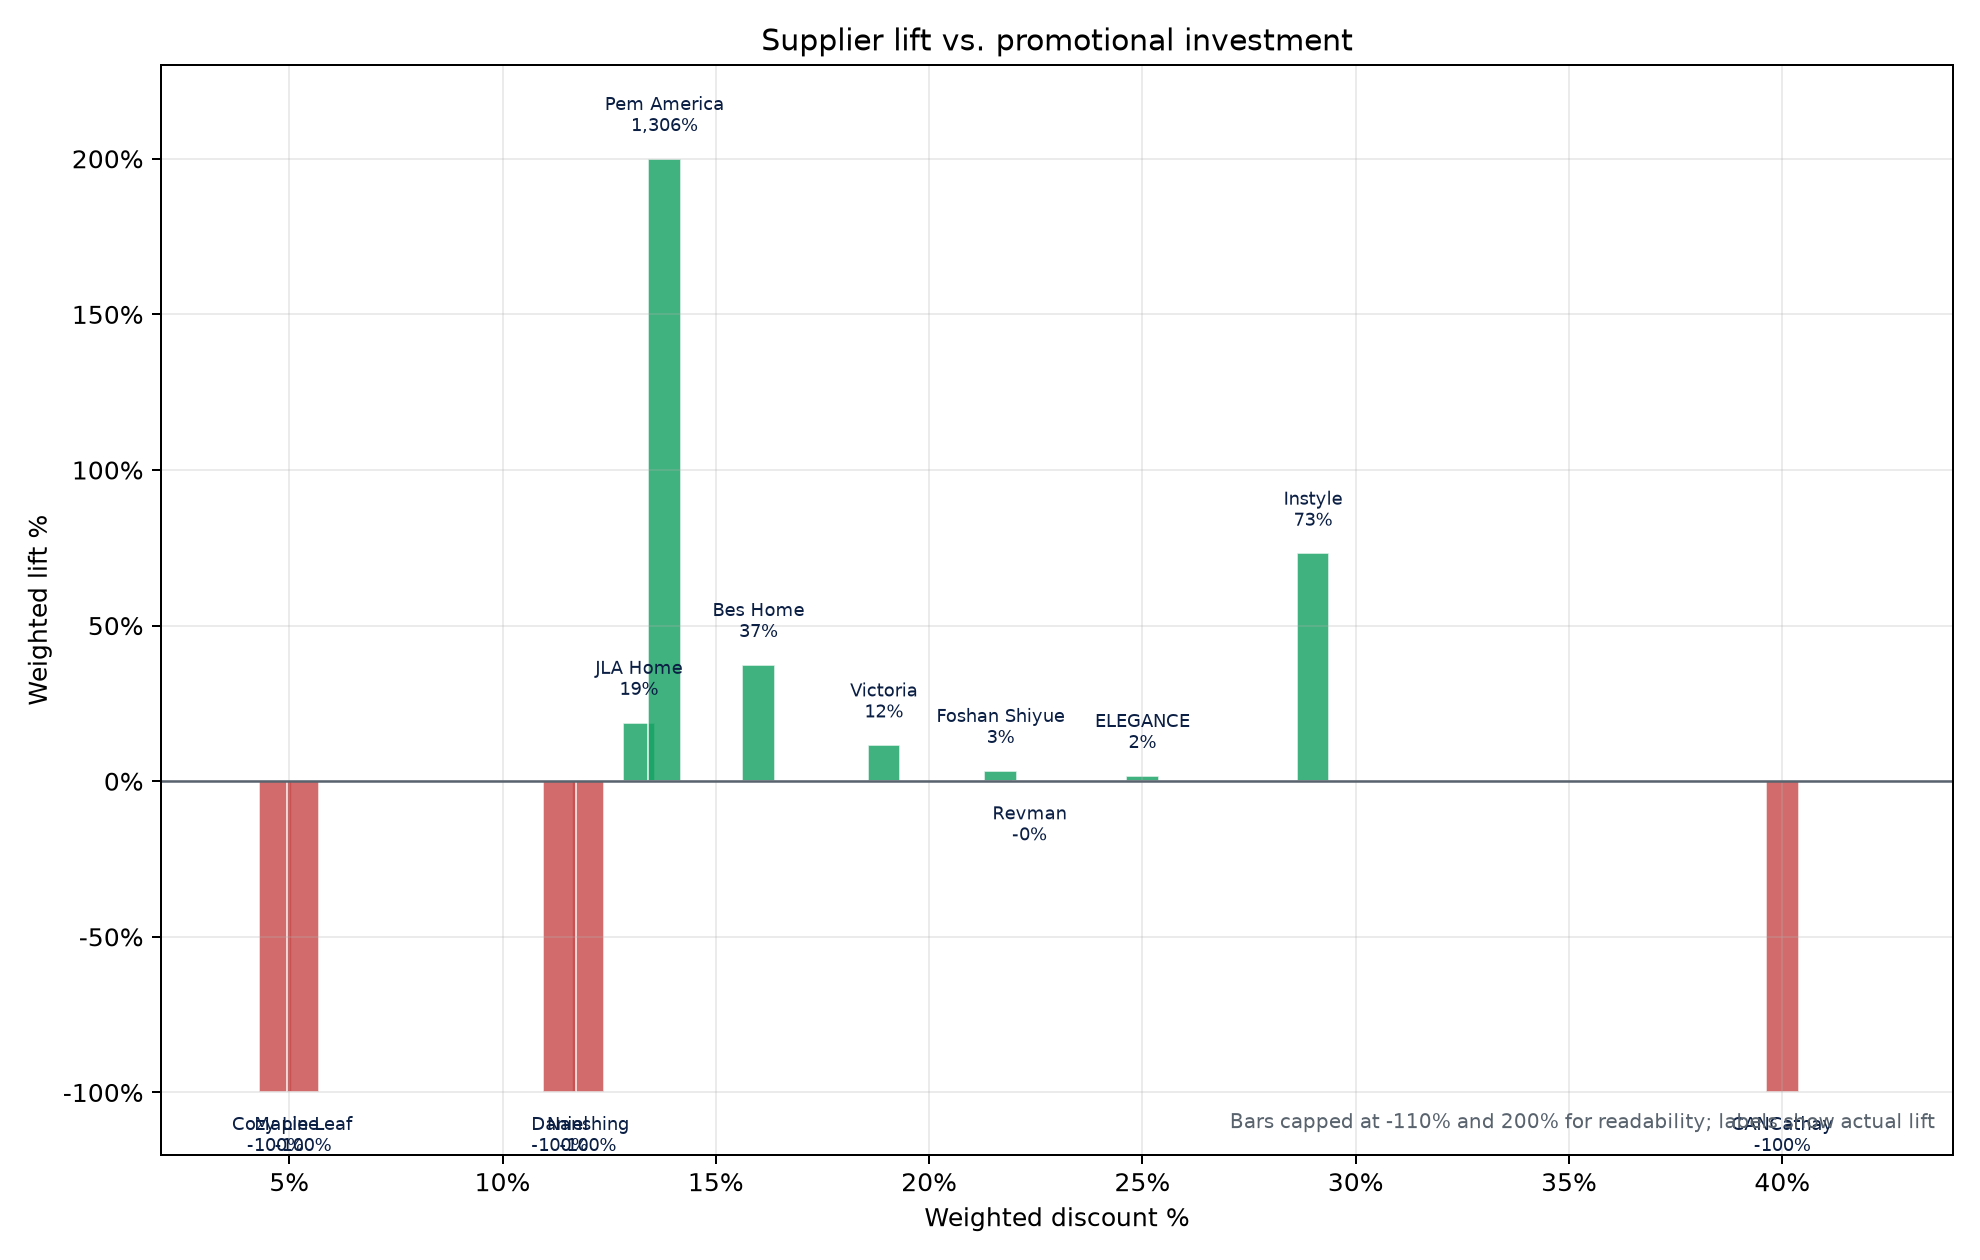
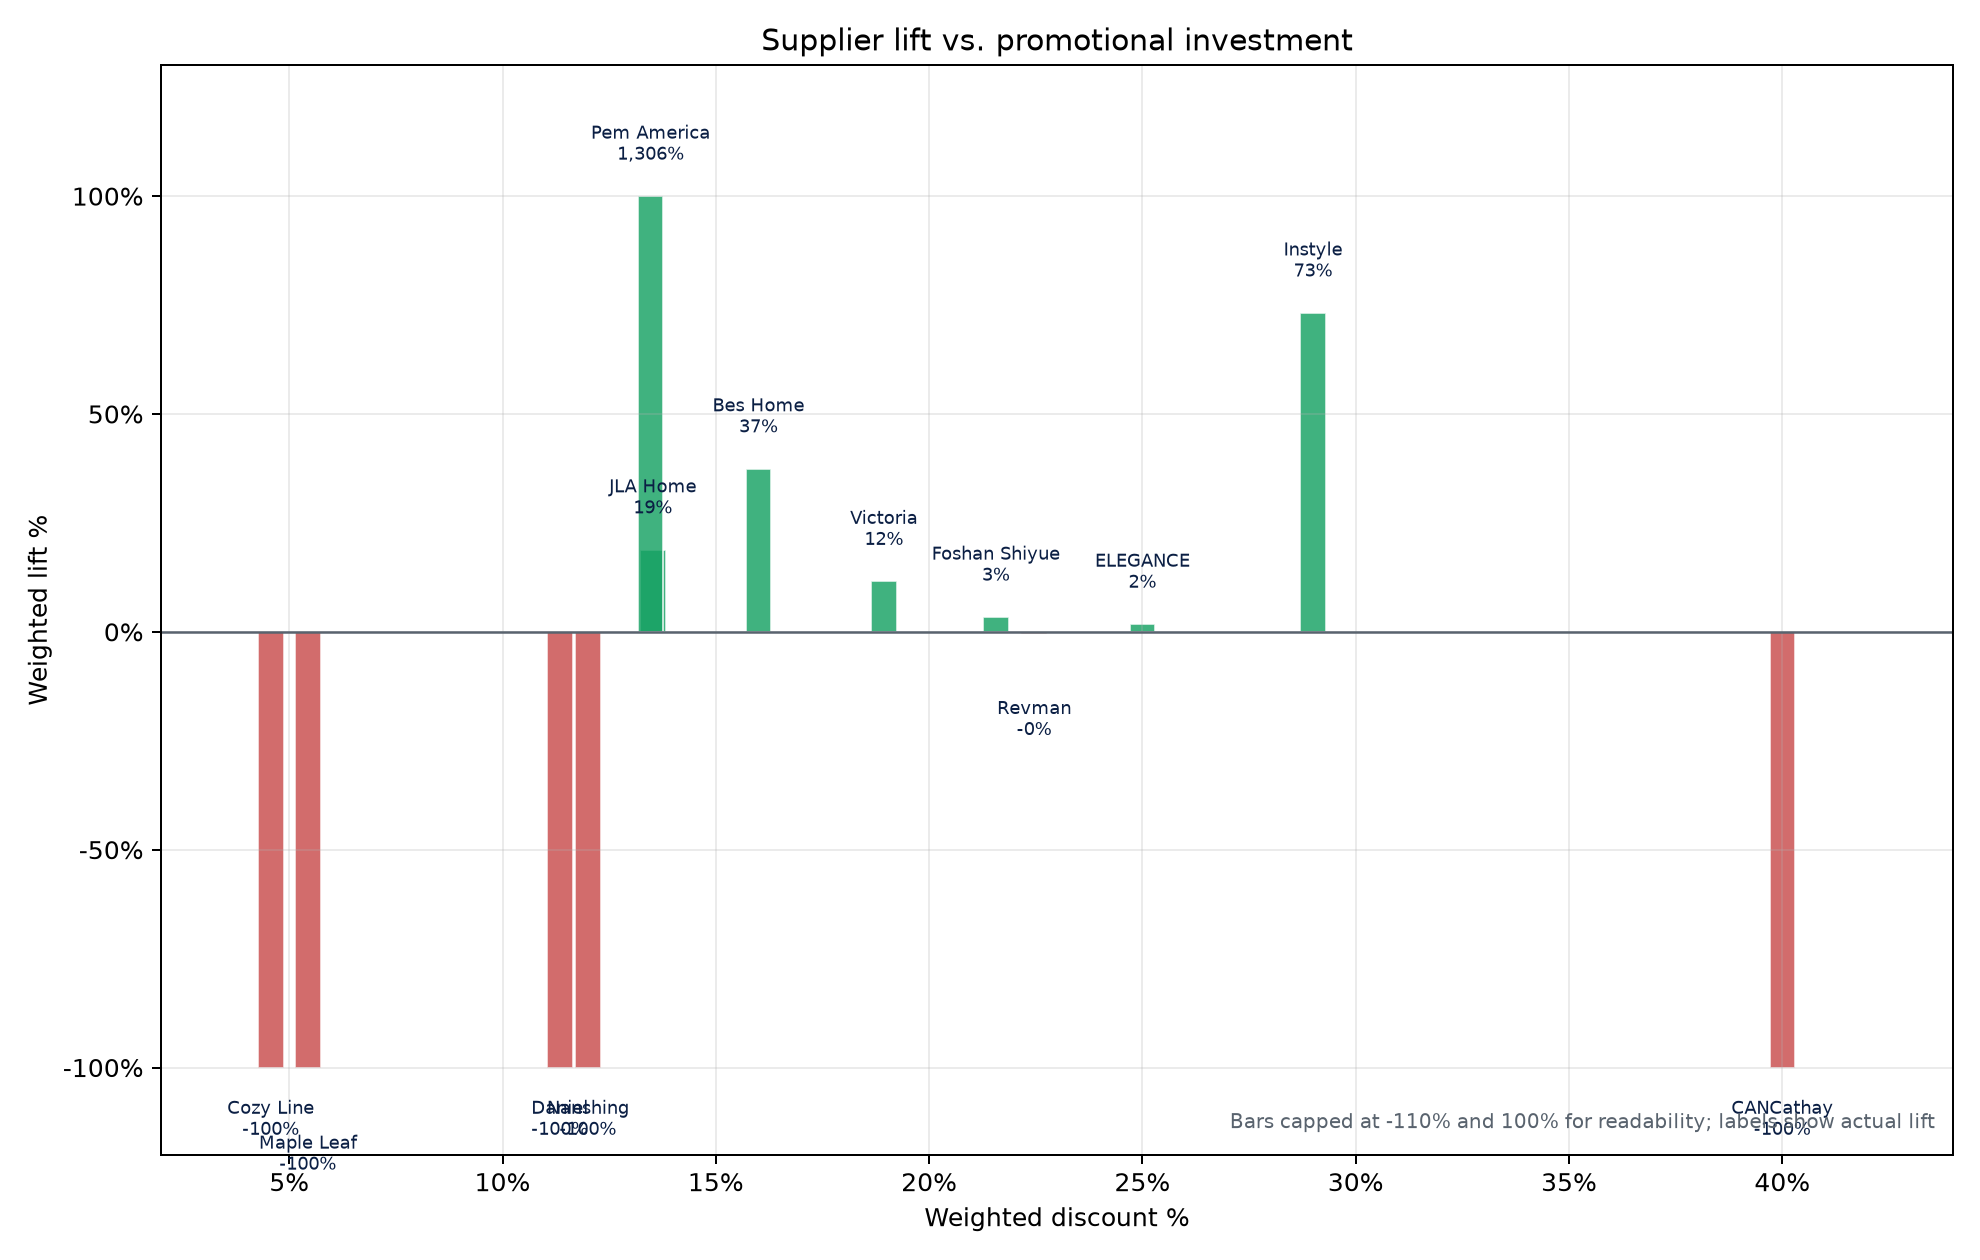
Improve window supplier chart readability

diff --git a/analysis/member_monday/build_case_study.py b/analysis/member_monday/build_case_study.py
@@ -330,21 +330,26 @@ def save_chart_supplier_scatter(supplier_summary: pd.DataFrame, out: Path) -> No
     plot_df = plot_df.sort_values("member_monday_sales", ascending=False).head(14)
     plot_df["lift_pct"] = plot_df["weighted_lift_pct"] * 100
     plot_df["discount_pct"] = plot_df["weighted_discount_pct"] * 100
-    plot_df["display_lift_pct"] = plot_df["lift_pct"].clip(lower=-110, upper=200)
+    plot_df["display_lift_pct"] = plot_df["lift_pct"].clip(lower=-110, upper=100)
     plot_df["display_name"] = plot_df["supplier_name"].map(abbreviate_supplier)
 
     x_min = max(0, plot_df["discount_pct"].min() - 3)
     x_max = plot_df["discount_pct"].max() + 4
-    bar_width = max(0.45, (x_max - x_min) / 55)
+    bar_width = max(0.35, (x_max - x_min) / 70)
     plot_df["x_plot"] = plot_df["discount_pct"]
-    for _key, group in plot_df.groupby(plot_df["discount_pct"].round(1)):
+    plot_df["label_offset"] = 7
+    cluster_key = (plot_df["discount_pct"] / 1.0).round()
+    for _key, group in plot_df.groupby(cluster_key):
         if len(group) == 1:
             continue
         offsets = [
-            (idx - (len(group) - 1) / 2) * bar_width * 0.85
+            (idx - (len(group) - 1) / 2) * bar_width * 1.45
             for idx in range(len(group))
         ]
         plot_df.loc[group.index, "x_plot"] = group["discount_pct"].to_numpy() + offsets
+        plot_df.loc[group.index, "label_offset"] = [
+            7 + (idx % 3) * 8 for idx in range(len(group))
+        ]
 
     fig, ax = plt.subplots(figsize=(11, 7))
     ax.axhline(0, color="#59636e", linewidth=1)
@@ -377,7 +382,7 @@ def save_chart_supplier_scatter(supplier_summary: pd.DataFrame, out: Path) -> No
 
     for row in plot_df.itertuples():
         label = f"{row.display_name}\n{row.lift_pct:,.0f}%"
-        label_offset = 7 if row.display_lift_pct >= 0 else -7
+        label_offset = row.label_offset if row.display_lift_pct >= 0 else -row.label_offset
         ax.text(
             row.x_plot,
             row.display_lift_pct + label_offset,
@@ -391,7 +396,7 @@ def save_chart_supplier_scatter(supplier_summary: pd.DataFrame, out: Path) -> No
         ax.text(
             0.99,
             0.02,
-            "Bars capped at -110% and 200% for readability; labels show actual lift",
+            "Bars capped at -110% and 100% for readability; labels show actual lift",
             ha="right",
             va="bottom",
             transform=ax.transAxes,
